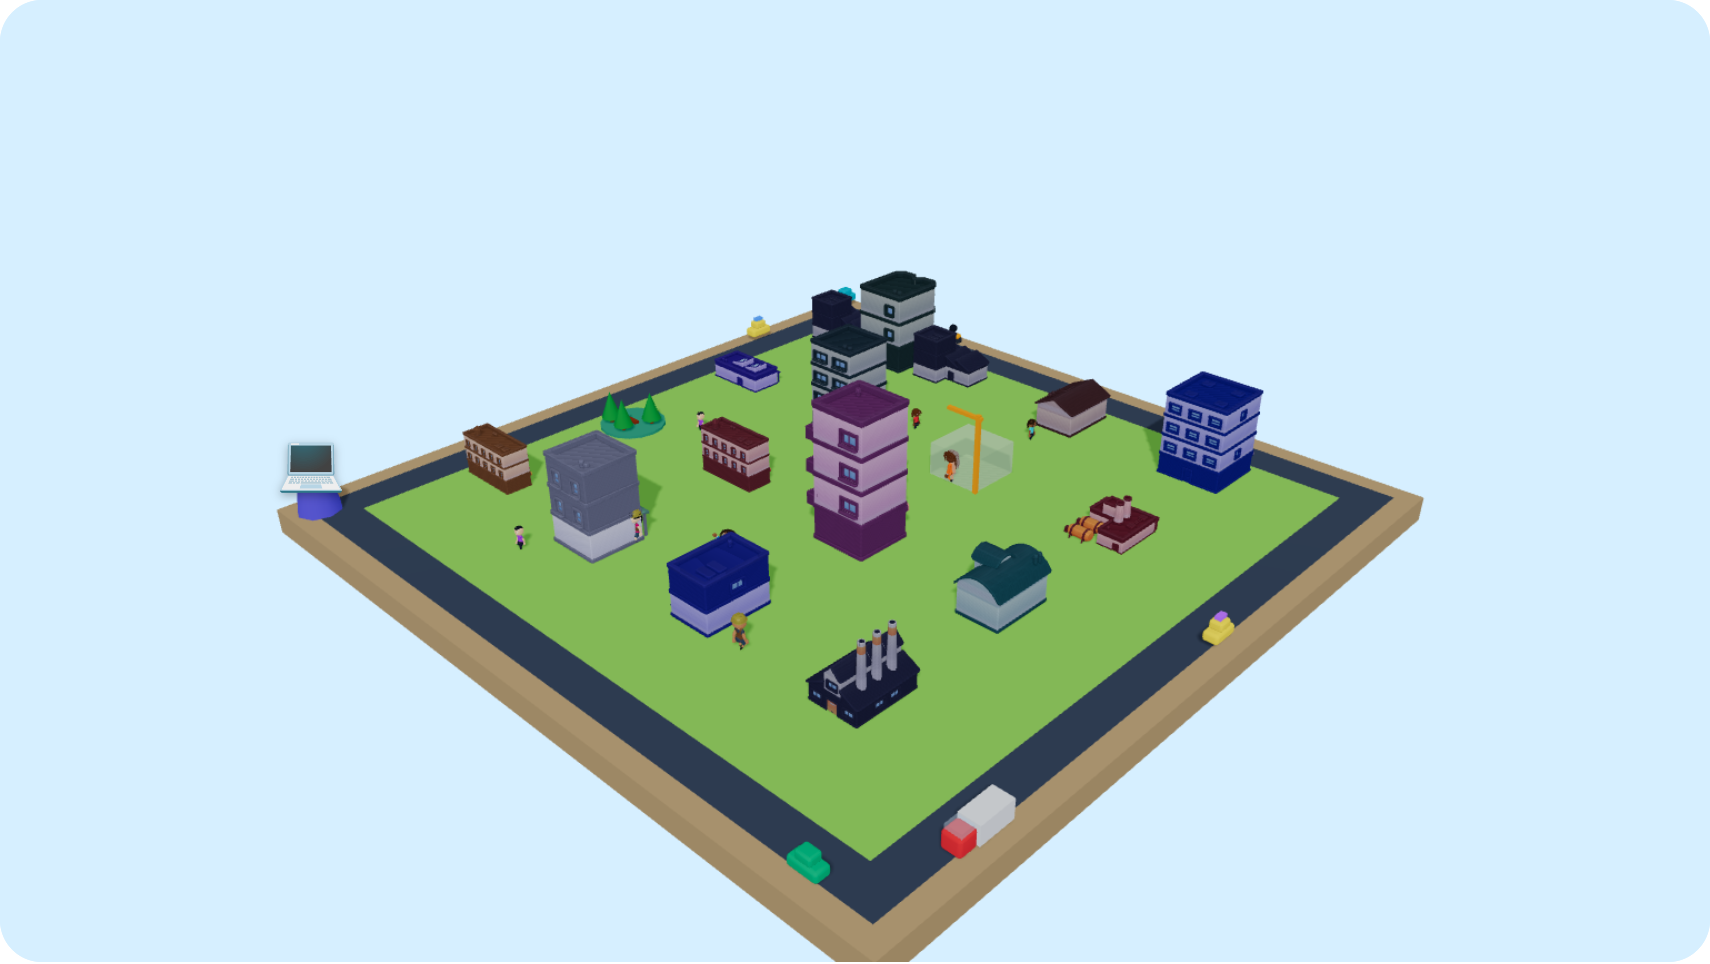
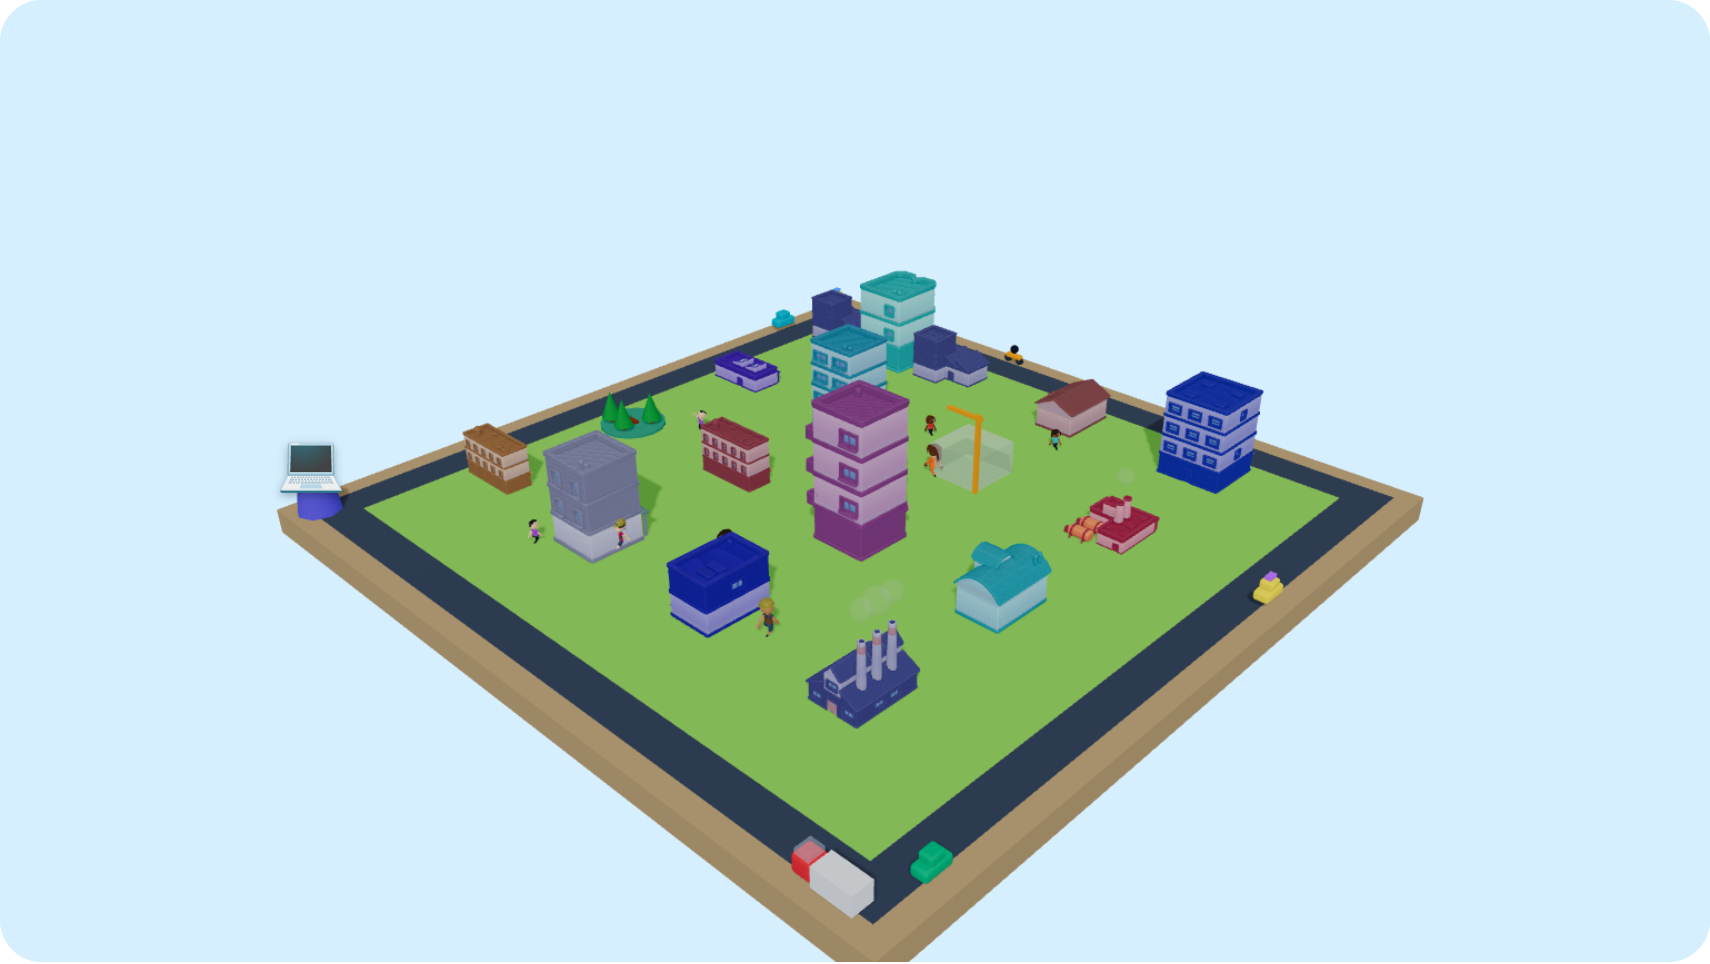
Restore chimney smoke on factory/power models and brighten dark tints
- Chimney tip positions per model, precomputed by analysing the mesh
  height field (tall narrow columns above the roof line), stored as
  bounding-box fractions and placed after scaling
- GltfBuilding takes a chimneyEffect render prop; factory and power
  emit SmokePuff from every chimney (lvl1 factory has none)
- Tints darker than HSL lightness 0.62 are lifted so the grey factory
  no longer renders near-black; deep tone of the two-tone shader
  brightened for all building types

Claude-Session: https://claude.ai/code/session_01A7oqvLZEkv4n3g17xo1Yua

diff --git a/components/campus/GltfBuilding.tsx b/components/campus/GltfBuilding.tsx
@@ -35,9 +35,28 @@ const BUILDING_MODELS: Partial<Record<BuildingType, [string, string, string]>> =
 export function hasBuildingModel(type: BuildingType): boolean {
   return !!BUILDING_MODELS[type];
 }
-function modelUrl(type: BuildingType, level: number): string {
-  const list = BUILDING_MODELS[type]!;
-  return `/models/buildings/${list[Math.max(0, Math.min(2, level - 1))]}.glb`;
+function modelName(type: BuildingType, level: number): string {
+  return BUILDING_MODELS[type]![Math.max(0, Math.min(2, level - 1))];
+}
+
+/* 굴뚝 꼭대기 위치 (모델 경계 상자 기준 비율 x·높이·z).
+   모델 형상을 분석해 미리 계산한 값 — 연기 효과를 이 자리에 띄움. 굴뚝 없는 모델은 생략. */
+const CHIMNEYS: Record<string, [number, number, number][]> = {
+  "ind-building-l": [[0.56, 1, 0.864]],
+  "ind-building-m": [[0.748, 1, 0.265], [0.747, 1, 0.503], [0.748, 1, 0.735]],
+  "ind-building-c": [[0.595, 1, 0.41]],
+  "ind-building-e": [[0.144, 1, 0.816], [0.376, 1, 0.815]],
+  "ind-building-f": [[0.135, 1, 0.177]],
+};
+
+/** 너무 어두운 색(예: 공장 회색)은 벽이 거의 검게 보이므로 최소 밝기를 보장 */
+const MIN_LIGHTNESS = 0.62;
+function readableTint(hex: string): THREE.Color {
+  const c = new THREE.Color(hex);
+  const hsl = { h: 0, s: 0, l: 0 };
+  c.getHSL(hsl);
+  if (hsl.l < MIN_LIGHTNESS) c.setHSL(hsl.h, Math.min(1, hsl.s * 1.15), MIN_LIGHTNESS);
+  return c.convertSRGBToLinear();
 }
 
 /** 건물이 차지할 바닥 크기 (타일 1칸 = 1) */
@@ -63,7 +82,7 @@ function makeTintMaterial(src: THREE.Material, tint: THREE.Color, glow: boolean)
           "float wall = smoothstep( 0.25, 0.5, lum );",
           "float window = smoothstep( 0.1, 0.2, src.b - src.r ) * smoothstep( 0.08, 0.2, lum );",
           "vec3 light = mix( src, uTint, 0.55 ) * 1.05;",
-          "vec3 deep = mix( vec3( 0.07, 0.075, 0.1 ), uTint * 0.55, 0.6 );",
+          "vec3 deep = mix( vec3( 0.08, 0.085, 0.11 ), uTint * 0.72, 0.72 );",
           "vec3 painted = mix( deep, light, wall );",
           "diffuseColor.rgb = mix( painted, src, window );",
         ].join("\n"),
@@ -73,14 +92,17 @@ function makeTintMaterial(src: THREE.Material, tint: THREE.Color, glow: boolean)
   return m;
 }
 
+type ChimneyEffect = (position: [number, number, number], index: number) => ReactNode;
+
 function GltfBuildingInner({
-  type, level, tint, selected,
-}: { type: BuildingType; level: number; tint: string; selected: boolean }) {
-  const { scene } = useGLTF(modelUrl(type, level), false, true);
+  type, level, tint, selected, chimneyEffect,
+}: { type: BuildingType; level: number; tint: string; selected: boolean; chimneyEffect?: ChimneyEffect }) {
+  const name = modelName(type, level);
+  const { scene } = useGLTF(`/models/buildings/${name}.glb`, false, true);
 
   // 건물마다 독립된 재질(색)을 갖도록 복제하고, 바닥 크기에 맞춰 크기·위치 조정
-  const object = useMemo(() => {
-    const color = new THREE.Color(tint).convertSRGBToLinear();
+  const { object, chimneys } = useMemo(() => {
+    const color = readableTint(tint);
     const obj = scene.clone(true);
     obj.traverse((o) => {
       const mesh = o as THREE.Mesh;
@@ -99,10 +121,21 @@ function GltfBuildingInner({
     obj.scale.setScalar(s);
     const g = new THREE.Group();
     g.add(obj);
-    return g;
-  }, [scene, tint, selected]);
+    // 비율 좌표 → 실제 위치 (바닥 중심 기준, 크기 조정 반영)
+    const tips = (CHIMNEYS[name] ?? []).map(([fx, fy, fz]) => [
+      (box.min.x + fx * size.x - center.x) * s,
+      fy * size.y * s,
+      (box.min.z + fz * size.z - center.z) * s,
+    ] as [number, number, number]);
+    return { object: g, chimneys: tips };
+  }, [scene, name, tint, selected]);
 
-  return <primitive object={object} />;
+  return (
+    <>
+      <primitive object={object} />
+      {chimneyEffect && chimneys.map((p, i) => <group key={i}>{chimneyEffect(p, i)}</group>)}
+    </>
+  );
 }
 
 /* 모델을 못 불러오면 기존 도형 건물로 대체 */
@@ -115,6 +148,8 @@ class ModelBoundary extends Component<{ fallback: ReactNode; children: ReactNode
 
 export function GltfBuilding(props: {
   type: BuildingType; level: number; tint: string; selected: boolean; fallback: ReactNode;
+  /** 굴뚝 꼭대기마다 그릴 효과 (예: 연기) */
+  chimneyEffect?: ChimneyEffect;
 }) {
   const { fallback, ...rest } = props;
   return (

diff --git a/components/CompanyMap3D.tsx b/components/CompanyMap3D.tsx
@@ -93,6 +93,12 @@ function Building3D({
         level={lvl}
         tint={body}
         selected={selected}
+        // 공장·발전소는 굴뚝마다 연기 (굴뚝 위치는 모델별로 미리 계산됨)
+        chimneyEffect={
+          building.type === "factory" || building.type === "power"
+            ? (p, i) => <SmokePuff position={p} scale={0.8 + (i % 2) * 0.2} />
+            : undefined
+        }
         fallback={<Building3D building={building} selected={selected} tint={tint} seed={seed} procedural />}
       />
     );
